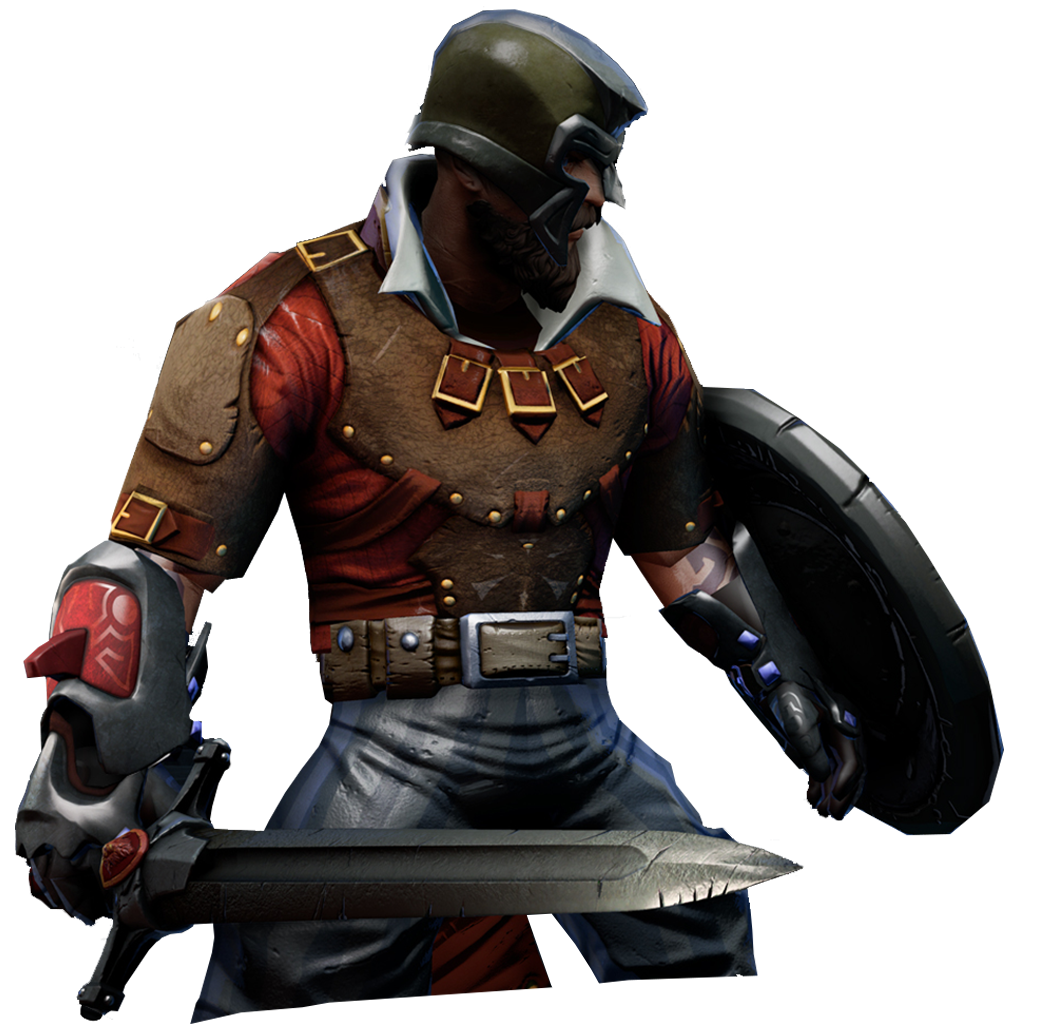
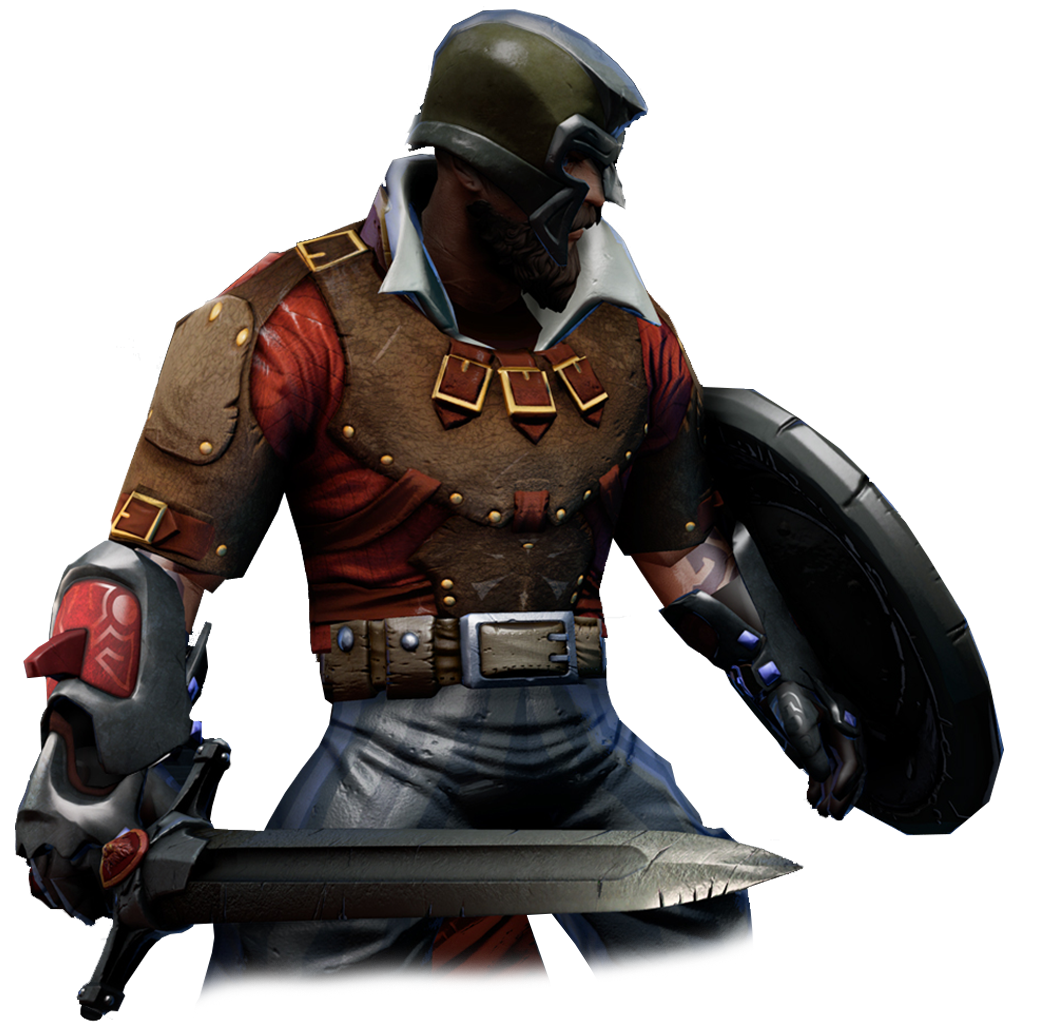
updated hof1 page

Changed region(s): [[0.183, 0.875, 0.7321, 1.0]]

diff --git a/hof1.html b/hof1.html
@@ -15,6 +15,7 @@
   <link rel="stylesheet" href="css/normalize.css">
   <link rel="stylesheet" href="css/magnific-popup.css">
   <link rel="stylesheet" href="css/card.css">
+  <link rel="stylesheet" href="css/matt.css">
 
   <link rel="stylesheet" href="css/styles.css">  
   <script src="//ajax.googleapis.com/ajax/libs/jquery/1.9.1/jquery.min.js"></script>
@@ -27,6 +28,7 @@
 <div id="cardCont"></div>
 
 <div id="constraint">
+<div class="intro-background">
   <div class="landing-hof-1">
     <div class="navigation">
       <nav>
@@ -47,6 +49,7 @@
 
   <div class="youtube-trailer-box-hof">
     <iframe class="youtube-iframe" src="https://www.youtube.com/embed/smGzACyrVDE" frameborder="0" allowfullscreen></iframe>
+  </div>
   </div>
 
   <div class="overview-container-hof">

diff --git a/css/matt.css b/css/matt.css
@@ -1,0 +1,8 @@
+.intro-background {
+	background-image:url(../img/backgroundhof.png);
+	background-size:cover;
+	width:100%;
+	display:block;
+	box-sizing:border-box;
+	padding-bottom:5%
+}
